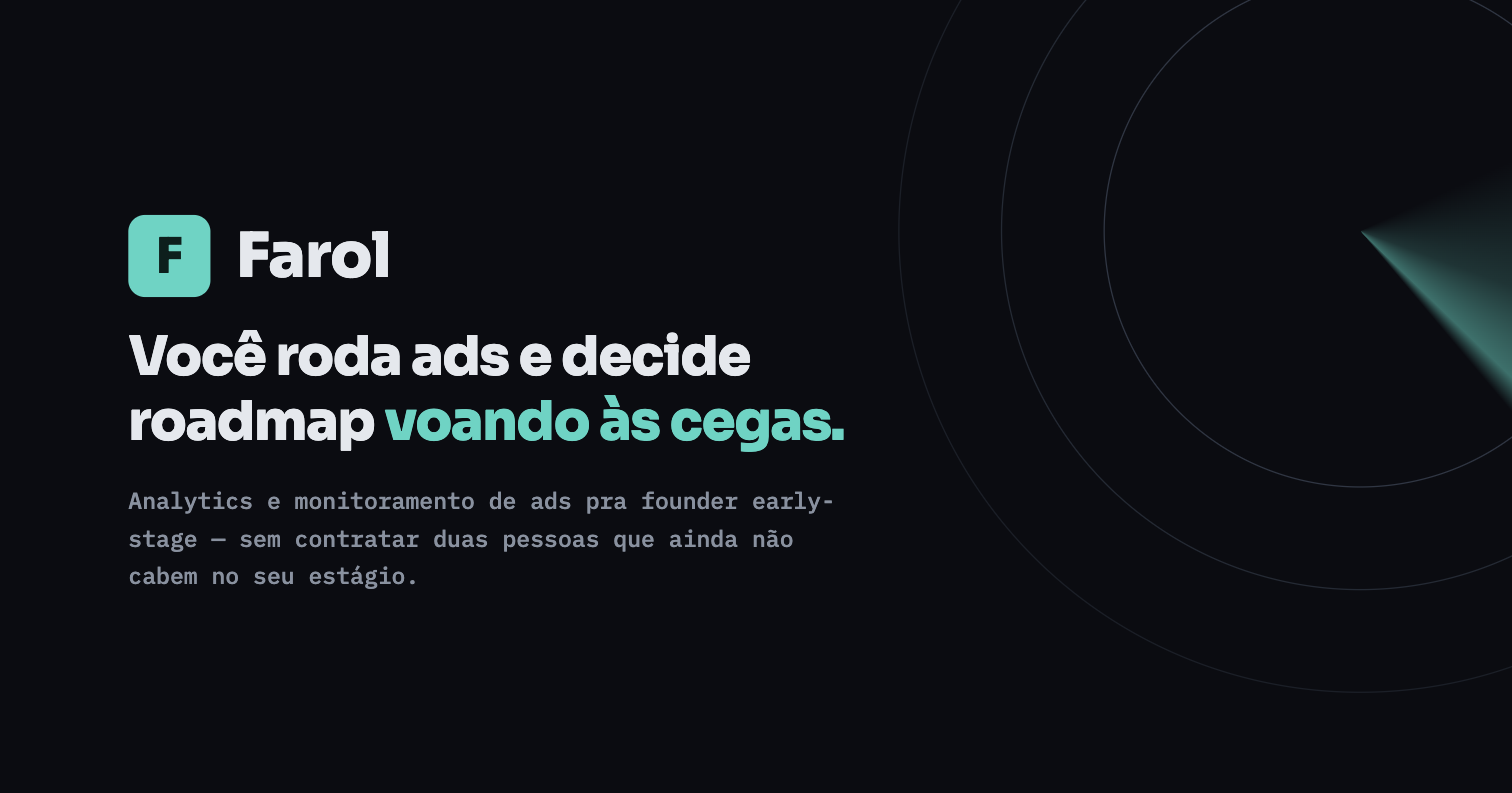
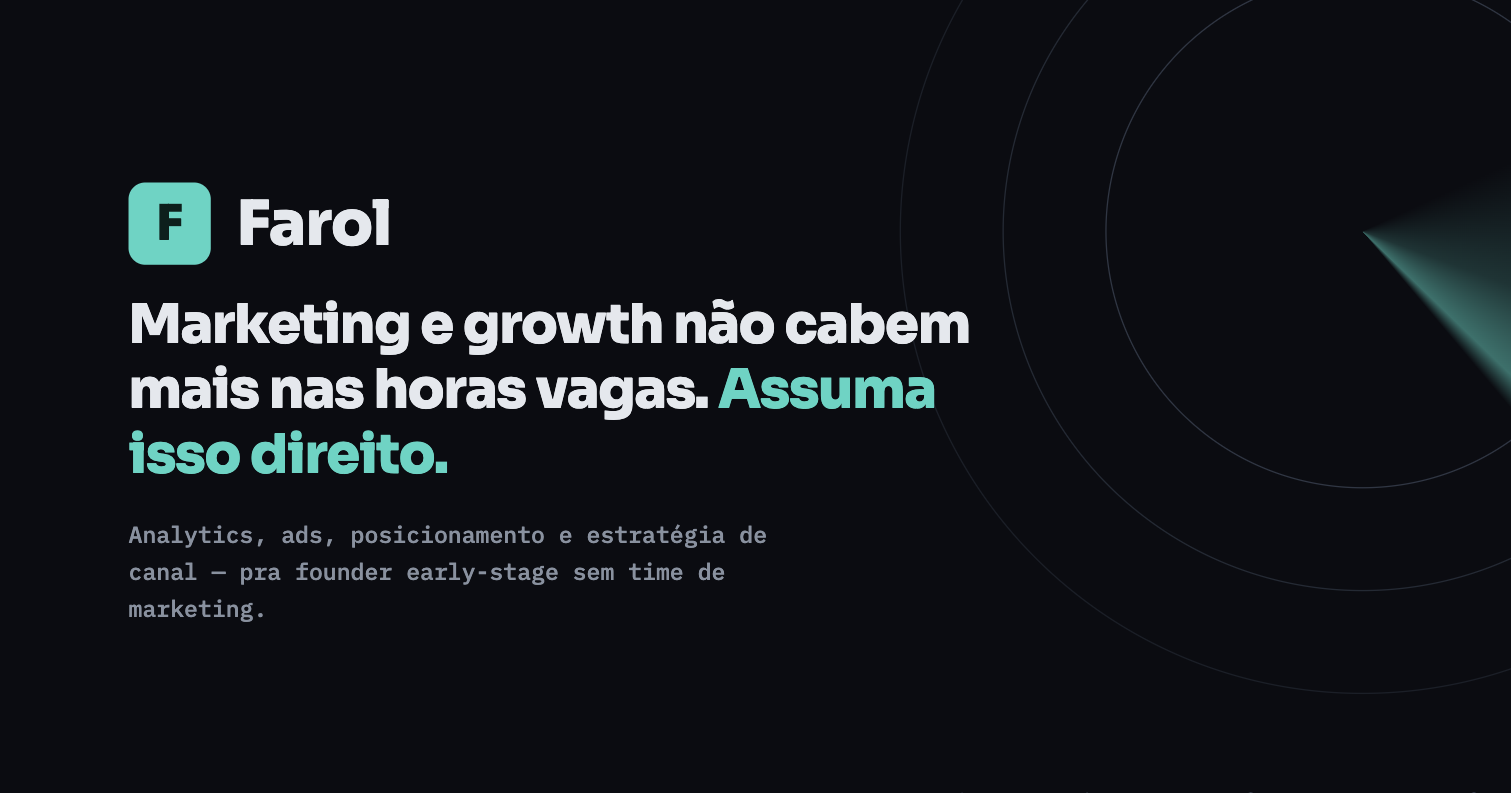
v2: amplia escopo de 'analytics+ads' pra 'função de marketing/growth'
Decisão do fundador: mesmo segmento (founder early-stage sem time de
marketing), job to be done ampliado.

- docs/positioning.md: reescrito via framework JTBD (6 partes), tabela de
  alternativas atualizada (CMO fracionado, agência full-service, freelancers
  soltos), changelog v1→v2 registrado
- Gerenciado reprecificado de R$697 pra R$1.497/mês (sobe pra R$1.997) —
  cobrar o mesmo por 3x o escopo desvaloriza o serviço
- index.html: hero, tabela de diferenciação, tier do Gerenciado, ribbon e
  meta/OG tags atualizados pro novo posicionamento
- og-image.html/png: headline e subtítulo atualizados, reexportado
- README.md e posting-style-guide.md atualizados pra refletir o escopo novo

diff --git a/index.html b/index.html
@@ -5,15 +5,15 @@
 <meta name="viewport" content="width=device-width, initial-scale=1.0" />
 <title>Farol</title>
 <link rel="icon" type="image/svg+xml" href="favicon.svg" />
-<meta name="description" content="Analytics e monitoramento de ads pra founder early-stage — sem contratar duas pessoas que ainda não cabem no seu estágio." />
+<meta name="description" content="Farol assume sua função de marketing e growth — analytics, ads, posicionamento e estratégia de canal — pra founder early-stage sem time de marketing." />
 <meta property="og:type" content="website" />
 <meta property="og:title" content="Farol" />
-<meta property="og:description" content="Você roda ads e decide roadmap voando às cegas. Farol monta o analytics e monitora seus ads de verdade." />
+<meta property="og:description" content="Marketing e growth não cabem mais nas horas vagas. Farol vira sua função de growth, sem contratar um CMO ou um time inteiro." />
 <meta property="og:image" content="https://caioborges-05.github.io/farol/og-image.png" />
 <meta property="og:url" content="https://caioborges-05.github.io/farol/" />
 <meta name="twitter:card" content="summary_large_image" />
 <meta name="twitter:title" content="Farol" />
-<meta name="twitter:description" content="Analytics e monitoramento de ads pra founder early-stage — sem voar às cegas." />
+<meta name="twitter:description" content="Analytics, ads, posicionamento e estratégia de canal — pra founder early-stage sem time de marketing." />
 <meta name="twitter:image" content="https://caioborges-05.github.io/farol/og-image.png" />
 <style>
   @import url('https://fonts.googleapis.com/css2?family=Sora:wght@600;700;800&family=IBM+Plex+Sans:wght@400;500;600&family=IBM+Plex+Mono:wght@400;500;600&display=swap');
@@ -184,7 +184,7 @@
   <div class="ribbon">
     <div class="ribbon-inner">
       <span class="ribbon-dot"></span>
-      <span class="ribbon-text">PREÇO DE LANÇAMENTO — Gerenciado sobe de <strong>R$697</strong> pra R$997/mês em breve</span>
+      <span class="ribbon-text">PREÇO DE LANÇAMENTO — Gerenciado sobe de <strong>R$1.497</strong> pra R$1.997/mês em breve</span>
     </div>
   </div>
 
@@ -209,17 +209,16 @@
     <div class="wrap hero-inner">
       <span class="eyebrow">Painel de voo do seu crescimento</span>
       <h1>
-        <span class="fade">Você roda ads e decide roadmap</span><br>
-        <span class="pop">voando às cegas.</span> Sai desse voo.
+        <span class="fade">Marketing e growth não cabem mais</span><br>
+        nas horas vagas. <span class="pop">Assuma isso direito.</span>
       </h1>
       <p class="hero-sub">
-        Farol monta o instrumento de analytics certo <strong>e</strong> monitora
-        seus ads de verdade — pra você saber onde o dinheiro e o usuário estão
-        vazando, sem contratar um analista e um gestor de tráfego que ainda
-        não cabem no seu estágio.
+        Farol vira sua função de growth — analytics, ads, posicionamento
+        e estratégia de canal — pra você não precisar contratar um CMO
+        ou um time inteiro que ainda não cabe no seu estágio.
       </p>
       <a class="btn-primary" href="#planos">Ver planos</a>
-      <p class="hero-note">Pra founder early-stage que <strong>já roda tráfego pago</strong> mas não tem ninguém cuidando de analytics nem de ads de verdade.</p>
+      <p class="hero-note">Pra founder early-stage que <strong>ainda não tem time de marketing/growth</strong> — só tenta cobrir tudo sozinho, nas horas vagas.</p>
     </div>
   </section>
 
@@ -227,15 +226,15 @@
     <div class="wrap readout-inner">
       <div class="readout-item">
         <div class="label">O painel hoje</div>
-        <p>PostHog/GA4 mal configurado ou nem existe. Planilha de ads atualizada de vez em quando. Roadmap decidido no achismo.</p>
+        <p>PostHog/GA4 mal configurado ou nem existe. Posicionamento muda a cada post. Zero roadmap de experimento — só reação.</p>
       </div>
       <div class="readout-item">
         <div class="label">O que muda</div>
-        <p><strong>Instrumento certo + interpretação humana.</strong> Não é dashboard bruto pra você decifrar sozinho — é "aqui está o que aconteceu e o que fazer".</p>
+        <p><strong>Estratégia + execução + medição.</strong> Não é dashboard bruto nem agência trabalhando em escala — é uma pessoa real interpretando o seu negócio.</p>
       </div>
       <div class="readout-item">
         <div class="label">O resultado</div>
-        <p>Você detecta o vazamento em <strong>dias</strong>, não em meses de CAC subindo sem ninguém perceber.</p>
+        <p>Você decide canal, mensagem e budget com <strong>direção clara</strong>, não reagindo semana a semana.</p>
       </div>
     </div>
   </section>
@@ -253,24 +252,28 @@
           <div class="diff-cell why">Por que perde</div>
         </div>
         <div class="diff-row">
-          <div class="diff-cell alt">Contratar CLT (analista + gestor de tráfego)</div>
-          <div class="diff-cell why">Caro e lento de contratar pro seu estágio — 2 salários antes de saber se precisa dos 2.</div>
+          <div class="diff-cell alt">CMO fracionado / head of growth</div>
+          <div class="diff-cell why">R$8-15k+/mês — caro e lento de contratar bem pro seu estágio.</div>
+        </div>
+        <div class="diff-row">
+          <div class="diff-cell alt">Agência full-service tradicional</div>
+          <div class="diff-cell why">Processo padronizado pra escala, pouca profundidade por cliente, pouca flexibilidade pro seu estágio.</div>
         </div>
         <div class="diff-row">
           <div class="diff-cell alt">Fazer sozinho</div>
-          <div class="diff-cell why">É literalmente o que já está acontecendo — e é o problema, não a solução.</div>
+          <div class="diff-cell why">É literalmente o que já está acontecendo — marketing em rajada, sem processo.</div>
+        </div>
+        <div class="diff-row">
+          <div class="diff-cell alt">Freelancers soltos por especialidade</div>
+          <div class="diff-cell why">Um de ads, um de conteúdo — ninguém dono da estratégia como um todo.</div>
         </div>
         <div class="diff-row">
           <div class="diff-cell alt">Ferramenta self-serve internacional</div>
-          <div class="diff-cell why">Cobra em dólar, sem ninguém interpretando o dado — você continua sozinho, só que com mais gráfico.</div>
-        </div>
-        <div class="diff-row">
-          <div class="diff-cell alt">Agência de mídia tradicional</div>
-          <div class="diff-cell why">Só cobre ads. Ignora se o produto/funil está instrumentado — metade do problema fica de fora.</div>
+          <div class="diff-cell why">Cobra em dólar, resolve só medição — sem estratégia nem interpretação.</div>
         </div>
         <div class="diff-row you">
           <div class="diff-cell alt">Farol</div>
-          <div class="diff-cell why">Cobre os dois lados (analytics + ads), com pessoa real interpretando, em BRL, sem compromisso de CLT.</div>
+          <div class="diff-cell why">Estratégia + execução + medição, com pessoa real interpretando, em BRL, sem compromisso de CLT nem contrato de agência.</div>
         </div>
       </div>
     </div>
@@ -290,7 +293,7 @@
           <span class="tier-badge now">Comece aqui</span>
           <div class="tier-label">Diagnóstico</div>
           <div class="tier-name">Farol Diagnóstico</div>
-          <div class="tier-desc">Auditoria real do seu PostHog/GA4 e da sua conta de ads. O que está quebrado, onde o funil vaza, o que configurar primeiro.</div>
+          <div class="tier-desc">Auditoria real do seu PostHog/GA4, conta de ads e landing page — mais uma leitura de posicionamento e fit de canal. O que está quebrado, onde o funil vaza, o que fazer primeiro.</div>
           <div class="tier-price"><span class="now">R$297</span></div>
           <div class="tier-fine">pagamento único · entrega em dias</div>
           <a class="tier-cta" href="https://buy.stripe.com/00wfZi0p6fVI3sCeqq6Ri01">Pedir meu diagnóstico</a>
@@ -300,8 +303,8 @@
           <span class="tier-badge wait">Venda assistida</span>
           <div class="tier-label">Gerenciado</div>
           <div class="tier-name">Farol Gerenciado</div>
-          <div class="tier-desc">Setup completo de analytics + monitoramento semanal de ads com insight acionável. Acompanhamento contínuo, não um raio-x único.</div>
-          <div class="tier-price"><span class="old">R$997</span><span class="now">R$697</span><span class="period">/mês</span></div>
+          <div class="tier-desc">Sua função de growth rodando: analytics + ads + posicionamento + estratégia de canal + roadmap de experimentos. Acompanhamento contínuo, não um raio-x único.</div>
+          <div class="tier-price"><span class="old">R$1.997</span><span class="now">R$1.497</span><span class="period">/mês</span></div>
           <div class="tier-fine">preço de lançamento · requer conversa antes de começar</div>
           <a class="tier-cta" href="mailto:caio.borgesdeo@gmail.com?subject=Farol%20Gerenciado%20%E2%80%94%20agendar%20conversa&body=Quero%20agendar%20uma%20conversa%20sobre%20o%20Farol%20Gerenciado.">Agendar conversa</a>
         </div>

diff --git a/docs/brand/og-image.html b/docs/brand/og-image.html
@@ -84,8 +84,8 @@
         <div class="mark"><span>F</span></div>
         <div class="name">Farol</div>
       </div>
-      <h1>Você roda ads e decide roadmap <span class="pop">voando às cegas.</span></h1>
-      <div class="sub">Analytics e monitoramento de ads pra founder early-stage — sem contratar duas pessoas que ainda não cabem no seu estágio.</div>
+      <h1>Marketing e growth não cabem mais nas horas vagas. <span class="pop">Assuma isso direito.</span></h1>
+      <div class="sub">Analytics, ads, posicionamento e estratégia de canal — pra founder early-stage sem time de marketing.</div>
     </div>
   </div>
 </body>

diff --git a/docs/positioning.md b/docs/positioning.md
@@ -2,51 +2,59 @@
 
 Gerado com o framework JTBD de 6 partes (skill `value-proposition`). Um segmento só, de propósito — diluir entre "pequeno negócio" e "startup" enfraquece a mensagem.
 
+**v2 (2026-08-19):** o job to be done foi ampliado de propósito — de "audita analytics e ads" pra "assume a função de marketing/growth" — mantendo o mesmo segmento único. Isso é diferente da decisão de descartar o benchmark V4 (que era sobre puxar serviços de um público diferente): aqui o público continua o mesmo, o que muda é o tamanho do job que o Farol resolve pra ele. Ver changelog no fim do documento.
+
 ## 1. Quem
 
-Founders de startups/negócios digitais early-stage no Brasil (bootstrapped a Series A) que **já rodam tráfego pago** (Meta/Google/TikTok) mas não têm ninguém dedicado a analytics nem a gestão de ads — o founder ou um generalista único tenta cobrir os dois ao mesmo tempo, sem tempo nem profundidade pra fazer direito.
+Founders de startups/negócios digitais early-stage no Brasil (bootstrapped a Series A) que **ainda não têm time de marketing/growth** — fazem tráfego pago, conteúdo e posicionamento nas horas vagas, sem estratégia nem processo, ou terceirizam pedaços soltos sem coerência entre eles.
 
 ## 2. Por quê (problema / JTBD)
 
-"Preciso saber, com confiança, onde meu funil está vazando e se meu dinheiro de ads está sendo bem gasto — sem contratar um analista E um gestor de tráfego separados, que ainda não cabem no meu estágio." Dor: decisão de produto no achismo, CAC subindo sem ninguém perceber a tempo, verba de ads queimada sem saber por quê.
+"Preciso que alguém assuma minha função de marketing/growth — decidir o que comunicar, onde buscar cliente, testar e medir se está funcionando — sem contratar um time inteiro (ou um CMO) que ainda não cabe no meu estágio." Dor: decisão de produto e de canal no achismo, mensagem/posicionamento confuso, marketing feito em rajadas sem processo, dinheiro (de ads ou de tempo) queimado sem saber onde.
 
 ## 3. Antes (situação atual)
 
-PostHog/GA4 mal configurado ou inexistente, dashboard que ninguém olha, planilha de ads atualizada de vez em quando, decisão de roadmap no feeling. Alternativa cara: contratar CLT (analista + gestor de tráfego, R$8-15k/mês cada) — inviável nesse estágio.
+PostHog/GA4 mal configurado ou inexistente, dashboard que ninguém olha, planilha de ads atualizada de vez em quando, posicionamento que muda a cada post, nenhum roadmap de experimento de growth — só reação. Alternativa cara: contratar CMO fracionado ou agência full-service (R$8-15k+/mês), ou tentar contratar um time interno cedo demais.
 
 ## 4. Como (solução)
 
-Farol monta o instrumento de analytics certo (funil real no PostHog) **e** monitora os ads de verdade (Meta/Google/TikTok), entregando insight acionável — não dashboard bruto pra interpretar sozinho, mas "aqui está o que aconteceu e o que fazer". Começa com um diagnóstico pago de baixo compromisso, evolui pro acompanhamento gerenciado.
+Farol vira a função de growth do founder: analytics instrumentado direito + ads monitorados de verdade + clareza de posicionamento/mensagem + estratégia de canal + roadmap de experimentos + CRO — entregue por uma pessoa real interpretando o negócio, não um dashboard genérico nem um time de agência trabalhando em escala. Começa pelo Diagnóstico (baixo compromisso, auditoria técnica + leitura de posicionamento/canal), evolui pro Gerenciado (a função de growth rodando todo mês).
 
 ## 5. Depois (resultado)
 
-Founder sabe exatamente onde o funil vaza e onde o dinheiro de ads vai bem ou mal, decide roadmap e budget com dado real — sem contratar 2 pessoas em tempo integral. Detecta problema em dias, não meses.
+Founder tem uma função de growth de verdade rodando — estratégia, execução e medição — sem contratar CMO ou montar um time cedo demais. Decide canal, mensagem e budget com direção clara, não reagindo semana a semana.
 
 ## 6. Alternativas (e por que Farol vence)
 
 | Alternativa | Por que perde |
 |---|---|
-| Contratar CLT (analista + gestor de tráfego) | Caro e lento de contratar pro estágio da empresa |
-| Fazer sozinho (o que já acontece hoje) | É literalmente o problema |
-| Ferramenta self-serve internacional (Mixpanel, Madgicx) | Cobra em dólar, sem ninguém interpretando o dado por você |
-| Agência de mídia tradicional | Só cobre ads, ignora instrumentação de produto |
+| Contratar CMO fracionado / head of growth | Caro (R$8-15k+/mês) e mais lento de contratar bem do que testar com o Farol primeiro |
+| Agência full-service tradicional | Processo padronizado pra escala, pouca profundidade por cliente, pouca flexibilidade pro estágio inicial |
+| Fazer sozinho (o que já acontece hoje) | É literalmente o problema — marketing em rajada, sem processo |
+| Ferramenta self-serve internacional (Mixpanel, Madgicx) | Cobra em dólar, resolve só um pedaço (medição), sem estratégia nem interpretação |
+| Freelancers soltos por especialidade (um de ads, um de conteúdo) | Ninguém dono da estratégia como um todo — pedaços que não conversam entre si |
 
 ## Declaração de valor (1-2 frases)
 
-"Farol monta o analytics e monitora seus ads de verdade — pra você saber onde o dinheiro e o usuário estão vazando, sem precisar contratar um analista e um gestor de tráfego que ainda não cabem no seu estágio."
+"Farol assume sua função de marketing e growth — analytics, ads, posicionamento e estratégia de canal — pra você não precisar contratar um CMO ou um time inteiro que ainda não cabe no seu estágio."
 
 ## Frase de posicionamento (marketing)
 
-"Pra founders early-stage que já rodam ads mas voam às cegas no resto: Farol é o instrumento que tira você do achismo — funil instrumentado direito + ads monitorados de verdade, com insight que diz o que fazer, não só o que aconteceu."
+"Pra founders early-stage sem time de marketing: Farol é a função de growth que você ainda não pode contratar — estratégia, execução e medição, com uma pessoa real por trás, não um dashboard genérico nem uma agência trabalhando em escala."
 
 ## Como isso vira produto (fases)
 
-1. **Diagnóstico Farol** — R$297, pagamento único. Auditoria real do PostHog/GA + conta de ads, relatório do que está quebrado e o que fazer. Entrega manual, 100% viável hoje.
-2. **Farol Gerenciado** — R$697/mês (sobe pra R$997 depois), venda assistida (call de onboarding). Setup completo + monitoramento semanal com insight acionável. Entrega manual.
+1. **Diagnóstico Farol** — R$297, pagamento único. Auditoria técnica (PostHog/GA + ads + landing page/CRO) **e** leitura de posicionamento/fit de canal — relatório do que está quebrado e o que fazer. Entrega manual, 100% viável hoje.
+2. **Farol Gerenciado** — **R$1.497/mês** (preço de lançamento, sobe pra R$1.997 depois), venda assistida (call de onboarding). Função de growth completa: analytics + ads + estratégia de canal/conteúdo + posicionamento + roadmap de experimentos. Entrega manual.
 3. **Farol Starter** — self-serve, dashboard automatizado com alerta. **Não existe ainda** — mesma classe de trabalho de engenharia que o motor de ranking do Winlist exigia. Fica em lista de espera, não é vendido até estar construído (mesmo motivo do Tracker/Pro no Winlist: não vender o que não existe).
 
 ## Decisão registrada: o que não incorporar (benchmark V4 Company)
 
 Analisamos o catálogo da V4 Company (maior rede de marketing digital do Brasil — 7 soluções × 4 modelos = 35 combinações) como benchmark de mercado. Incorporado: auditoria de landing page/CRO + mystery shopper opcional no Diagnóstico (ver `docs/diagnostico-playbook.md`), porque fecha o funil que a auditoria de ads/analytics já cobre.
 
-**Descartado de propósito:** diagnóstico de Google Meu Negócio, sequência de WhatsApp pra loja física, scripts de SDR AI-first, e o modelo de catálogo amplo em si. Motivo: o público validado da V4 é comércio local/tradicional — diferente do segmento único do Farol (founder early-stage de produto digital, framework JTBD acima). Ampliar catálogo pra parecer com a V4 dilui exatamente o posicionamento que o framework de 6 partes existe pra proteger. Não reabrir essa decisão sem uma razão nova e específica.
+**Descartado de propósito:** diagnóstico de Google Meu Negócio, sequência de WhatsApp pra loja física, scripts de SDR AI-first, e o modelo de catálogo amplo em si. Motivo: o público validado da V4 é comércio local/tradicional — diferente do segmento único do Farol (founder early-stage de produto digital). Ampliar catálogo pra parecer com a V4 dilui exatamente o posicionamento que o framework de 6 partes existe pra proteger. Não reabrir essa decisão sem uma razão nova e específica.
+
+## Changelog
+
+- **v1 (2026-08-19, manhã):** escopo = analytics + monitoramento de ads. Gerenciado R$697/mês.
+- **v2 (2026-08-19, tarde):** escopo ampliado por decisão explícita do fundador — de "audita ads/analytics" pra "assume a função de marketing/growth" — mesmo segmento (founder early-stage sem time de marketing). Gerenciado reprecificado pra R$1.497/mês, refletindo o escopo maior (cobrar o mesmo preço por 3x mais trabalho desvaloriza o serviço).

diff --git a/README.md b/README.md
@@ -1,15 +1,15 @@
 # Farol
 
-Analytics + monitoramento de ads pra founder early-stage BR que já roda tráfego pago mas não tem analista nem gestor de tráfego dedicado.
+Função de marketing e growth pra founder early-stage BR que ainda não tem time de marketing dedicado — analytics, ads, posicionamento e estratégia de canal.
 
-**PUV:** Farol monta o analytics e monitora seus ads de verdade — pra você saber onde o dinheiro e o usuário estão vazando, sem precisar contratar um analista e um gestor de tráfego que ainda não cabem no seu estágio.
+**PUV (v2):** Farol assume sua função de marketing e growth — analytics, ads, posicionamento e estratégia de canal — pra você não precisar contratar um CMO ou um time inteiro que ainda não cabe no seu estágio.
 
-Ver `docs/positioning.md` (framework JTBD completo) e `docs/brand-tokens.md` (identidade visual, direção de aviação/cockpit).
+Ver `docs/positioning.md` (framework JTBD completo, com changelog v1→v2) e `docs/brand-tokens.md` (identidade visual, direção de aviação/cockpit).
 
 ## Oferta
 
-1. **Diagnóstico — R$297, pagamento único.** Checkout ligado: https://buy.stripe.com/00wfZi0p6fVI3sCeqq6Ri01. Auditoria de PostHog/GA4 + conta de ads, entrega manual em dias.
-2. **Gerenciado — R$697/mês (preço de lançamento, sobe pra R$997), venda assistida.** CTA abre e-mail pra agendar conversa — sem checkout automatizado de propósito (retainer não deve ser self-serve).
+1. **Diagnóstico — R$297, pagamento único.** Checkout ligado: https://buy.stripe.com/00wfZi0p6fVI3sCeqq6Ri01. Auditoria de PostHog/GA4 + conta de ads + landing page/CRO, mais leitura de posicionamento/canal. Entrega manual em dias.
+2. **Gerenciado — R$1.497/mês (preço de lançamento, sobe pra R$1.997), venda assistida.** Função de growth completa (analytics + ads + posicionamento + estratégia de canal + roadmap de experimentos). CTA abre e-mail pra agendar conversa — sem checkout automatizado de propósito (retainer não deve ser self-serve).
 3. **Starter — self-serve, dashboard automatizado.** Não existe ainda. Lista de espera por e-mail — não vendido até estar construído de verdade (mesmo princípio aplicado ao Tracker/Pro do Winlist).
 
 ## Status

diff --git a/docs/posting-style-guide.md b/docs/posting-style-guide.md
@@ -2,6 +2,8 @@
 
 Derivado de `docs/positioning.md` e `docs/brand-tokens.md`. Objetivo: toda postagem devia poder ser lida em voz alta como se fosse um founder falando pra outro founder, não uma agência falando pra um lead.
 
+**Atualização v2:** o escopo do Farol ampliou de "analytics + ads" pra "função de marketing/growth completa" (ver changelog em `docs/positioning.md`). Os 5 posts já escritos continuam válidos (são subtemas reais dentro do escopo novo), mas a partir daqui a pauta deve variar entre os 4 pilares: analytics, ads, posicionamento/mensagem, e estratégia de canal — não travar só em analytics/ads como nos primeiros 5.
+
 ## Voz
 
 - **1ª pessoa, direto.** "Eu vejo", "eu fiz", nunca "a Farol acredita que..." — o formato é Thought Leader Ads, a credibilidade é da pessoa, não da marca.
